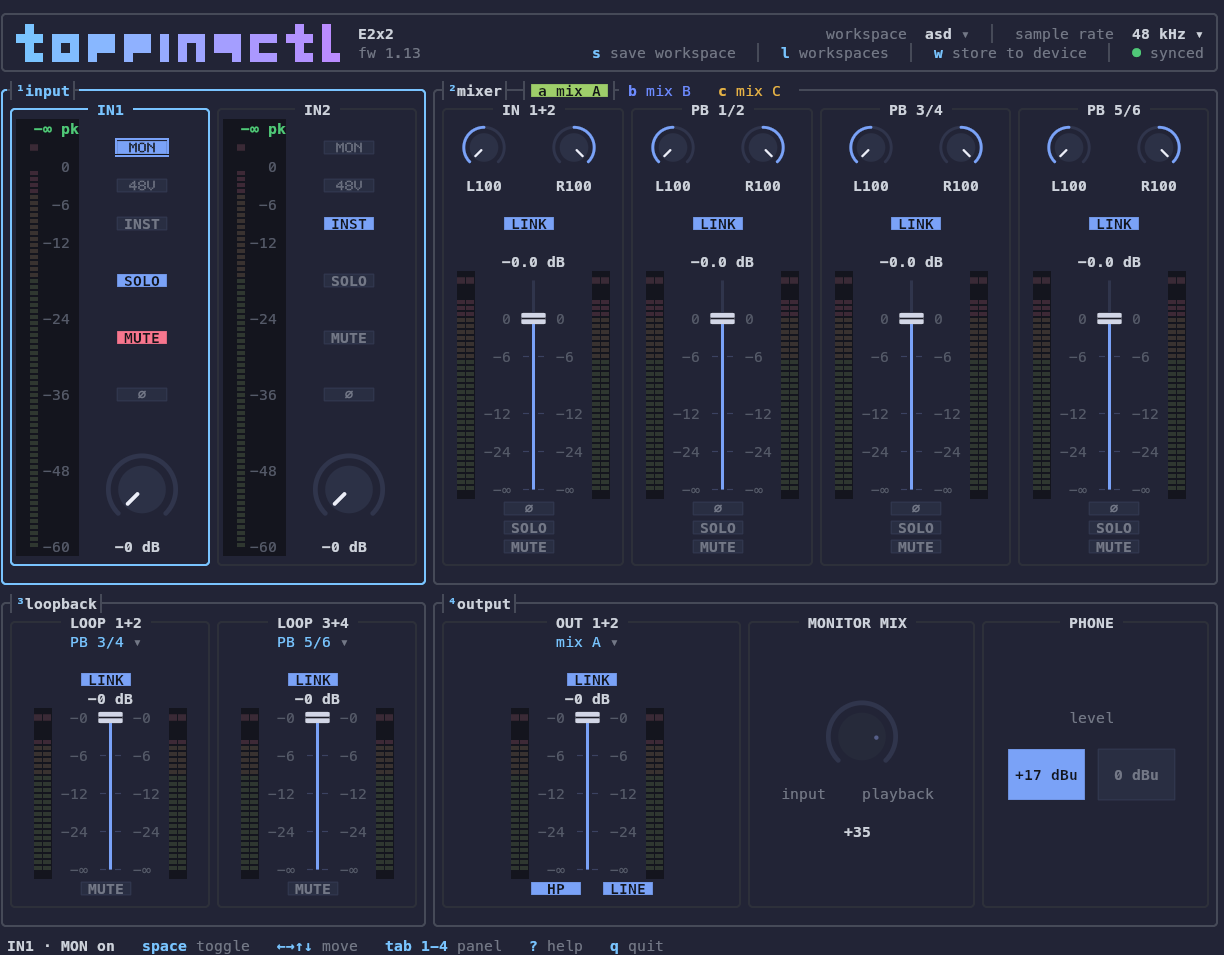
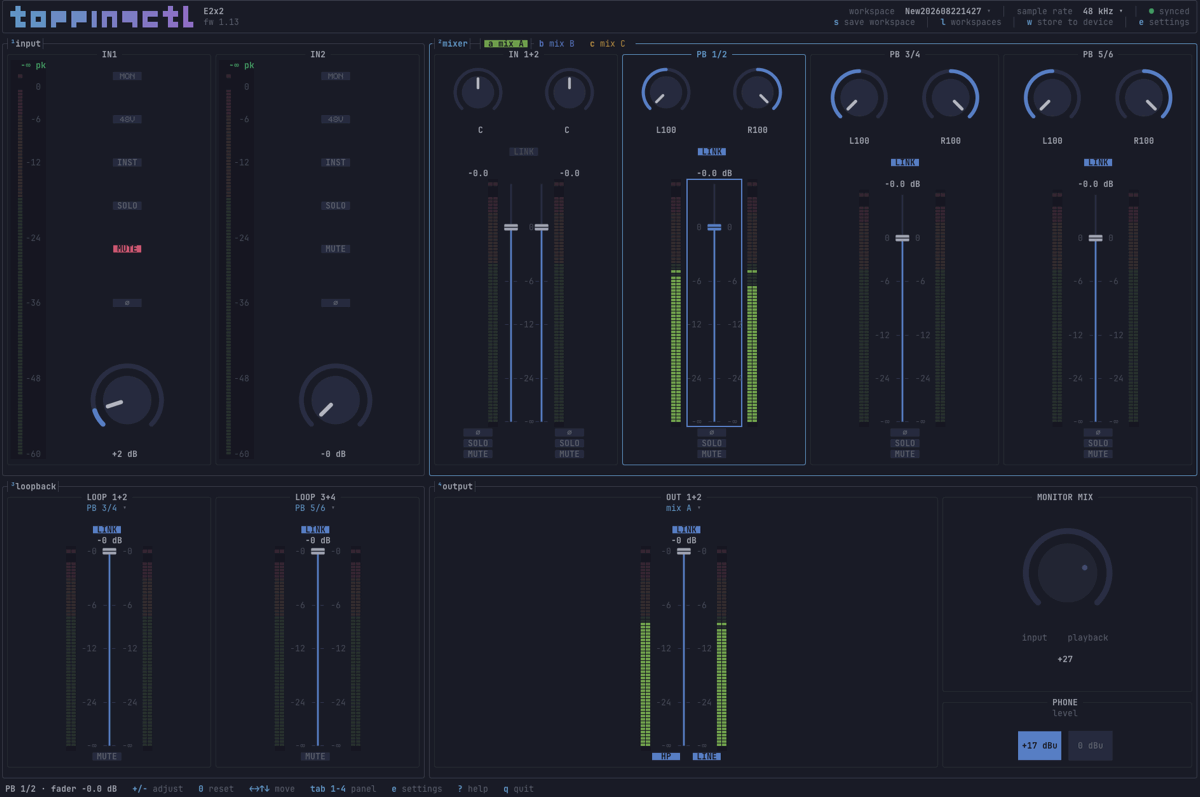
README: demo GIF of the TUI with music playing (#84)
* README: demo GIF of the TUI with music playing

Live meters, mixes A/B/C, a fader dip on Playback 1/2, the settings
dialog and the sample rate list (v0.2.2). The still screenshot is
refreshed from the same take.

* README test: the demo GIF stands in for the screenshot

diff --git a/tests/readme.rs b/tests/readme.rs
@@ -134,7 +134,7 @@ fn readme_mentions_what_the_spec_asks_for() {
         "kitty",
         "Ghostty",
         "PipeWire",
-        "Screenshot",
+        "docs/assets/demo.gif",
         "toppingctl set",
         "toppingctl get",
         "toppingctl dump",

diff --git a/README.md b/README.md
@@ -6,7 +6,7 @@ Control Center does: inputs (gain, 48V, mute, solo, phase, monitor, instrument),
 three mixes, loopback, the output, and the device's settings. It has a TUI and a CLI for
 scripts.
 
-![Screenshot of the toppingctl TUI: input, mixer, loopback and output panels](docs/assets/screenshot.png)
+![toppingctl running with music playing: live meters, switching mixes A/B/C, a fader dip on Playback 1/2, the settings dialog and the sample rate list](docs/assets/demo.gif)
 
 The TUI shows the official app's four panels side by side: **Input** (gain knobs and
 switches per channel), **Mixer** (one strip per source, for mix A, B or C), **Loopback**
